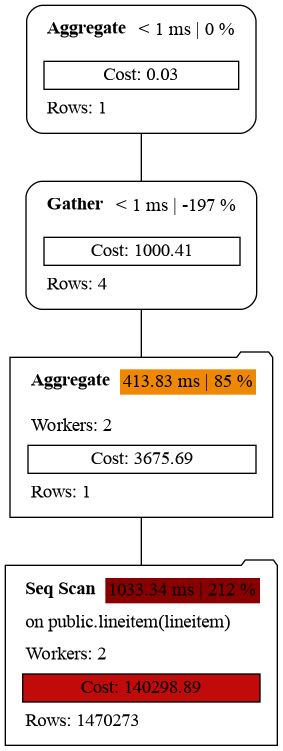
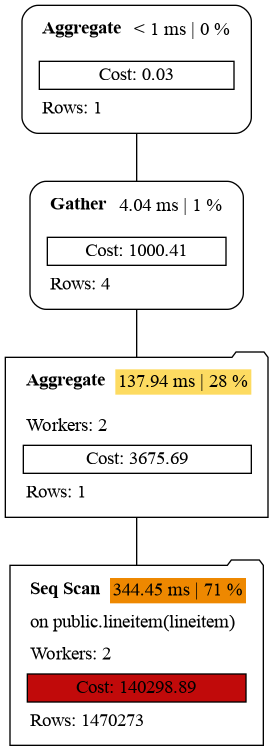
Fixes time calculation with workers

diff --git a/src/graph.rs b/src/graph.rs
@@ -27,7 +27,10 @@ impl Graph {
     fn from(explain: &crate::Explain) -> Self {
         let mut graph = Self::new();
 
-        graph.execution_time = explain.execution_time.or(explain.plan.actual_total_time).unwrap();
+        graph.execution_time = explain
+            .execution_time
+            .or(explain.plan.actual_total_time)
+            .unwrap();
         graph.plan(&explain, None, &explain.plan);
 
         graph
@@ -180,11 +183,17 @@ impl Node {
 
     fn time(plan: &crate::Plan) -> Option<f32> {
         if let Some(mut time) = plan.actual_total_time {
-            time *= plan.actual_loops as f32;
+            if plan.workers.is_empty() {
+                time *= plan.actual_loops as f32;
+            }
 
             for child in &plan.plans {
                 if child.parent_relationship != Some("InitPlan".to_string()) {
-                    time -= child.actual_total_time.unwrap_or_default() * child.actual_loops as f32;
+                    time -= if child.workers.is_empty() {
+                        child.actual_total_time.unwrap_or_default() * child.actual_loops as f32
+                    } else {
+                        child.actual_total_time.unwrap_or_default()
+                    }
                 }
             }
 
@@ -230,9 +239,7 @@ impl<'a> dot::Labeller<'a, Nd, Ed<'a>> for Graph {
         };
 
         let time = if let Some(time) = node.time {
-            let time_percent = (time / self.execution_time * 100.)
-                .round()
-                .trunc();
+            let time_percent = (time / self.execution_time * 100.).round().trunc();
 
             if time < 1. {
                 format!("<td>&lt; 1 ms | {} %</td>", time_percent)
@@ -241,9 +248,7 @@ impl<'a> dot::Labeller<'a, Nd, Ed<'a>> for Graph {
 
                 format!(
                     "<td bgcolor=\"{}\">{:.2} ms | {} %</td>",
-                    color,
-                    time,
-                    time_percent
+                    color, time, time_percent
                 )
             }
         } else {
